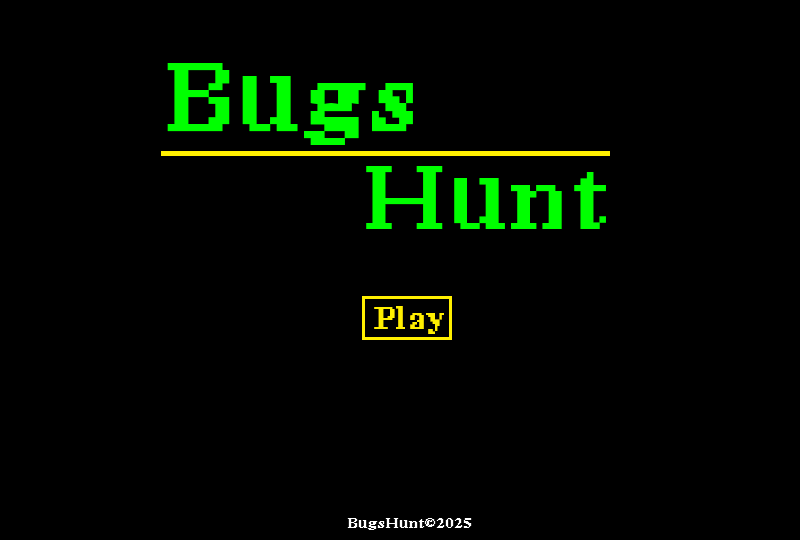
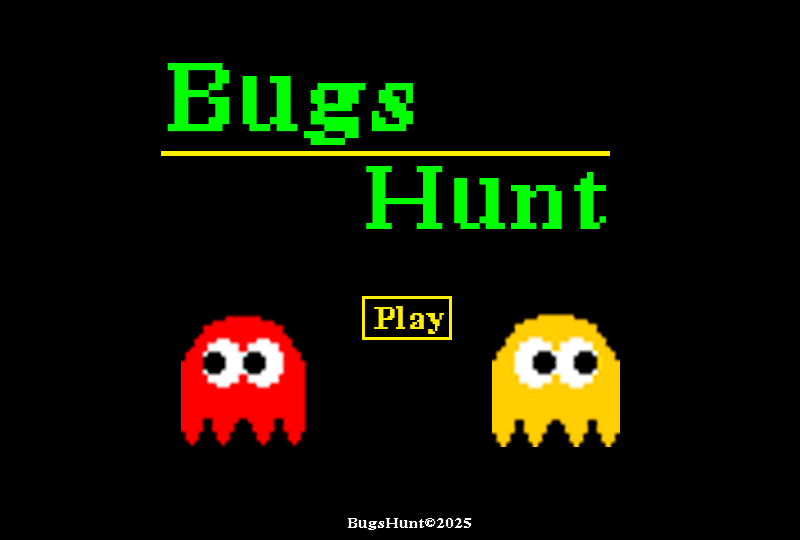
Add: Main menu and score logic

Changed region(s): [[0.5938, 0.563, 0.7812, 0.8296], [0.2188, 0.563, 0.4062, 0.8296]]

diff --git a/main.py b/main.py
@@ -1,9 +1,38 @@
 import pygame
+from Score import load_score, save_score
 
-from Sounds import Sounds
+# инициализация pygame
+pygame.init()
+screen = pygame.display.set_mode((800, 540))
 
-sounds = Sounds()
+# глобальные игровые переменные
+running = True
+main_menu = True
 
-if __name__ == '__main__':
-    pygame.init()
-    pygame.display.set_mode((800, 540))
+# инициализация игровых объектов
+play_button = pygame.Rect(355, 290, 95, 48)
+
+# фоны
+background_image = pygame.image.load('./data/menu_background.png').convert()
+
+# шрифты
+font = pygame.font.SysFont("Times New Roman", 20)
+
+# основной цикл игры
+while running:
+    for event in pygame.event.get():
+        if event.type == pygame.QUIT:
+            running = False
+        if main_menu:
+            if event.type == pygame.MOUSEBUTTONDOWN:
+                if play_button.collidepoint(event.pos):
+                    print("Старт игры!")
+                    main_menu = False
+    screen.fill((255, 255, 255))
+    if main_menu:
+        screen.blit(background_image, (0, 0))
+        screen.blit(font.render(f"TOP SCORE = {load_score()}", False, pygame.Color("green")), (320, 475))
+    if not main_menu:
+        screen.fill((255, 255, 255))
+    pygame.display.flip()
+pygame.quit()

diff --git a/Score.py b/Score.py
@@ -1,0 +1,7 @@
+def load_score() -> int:
+    with open('score.txt', 'r') as file:
+         return int(file.read().strip())
+
+def save_score(score: int) -> None:
+    with open('score.txt', 'w') as file:
+        file.write(str(score))
